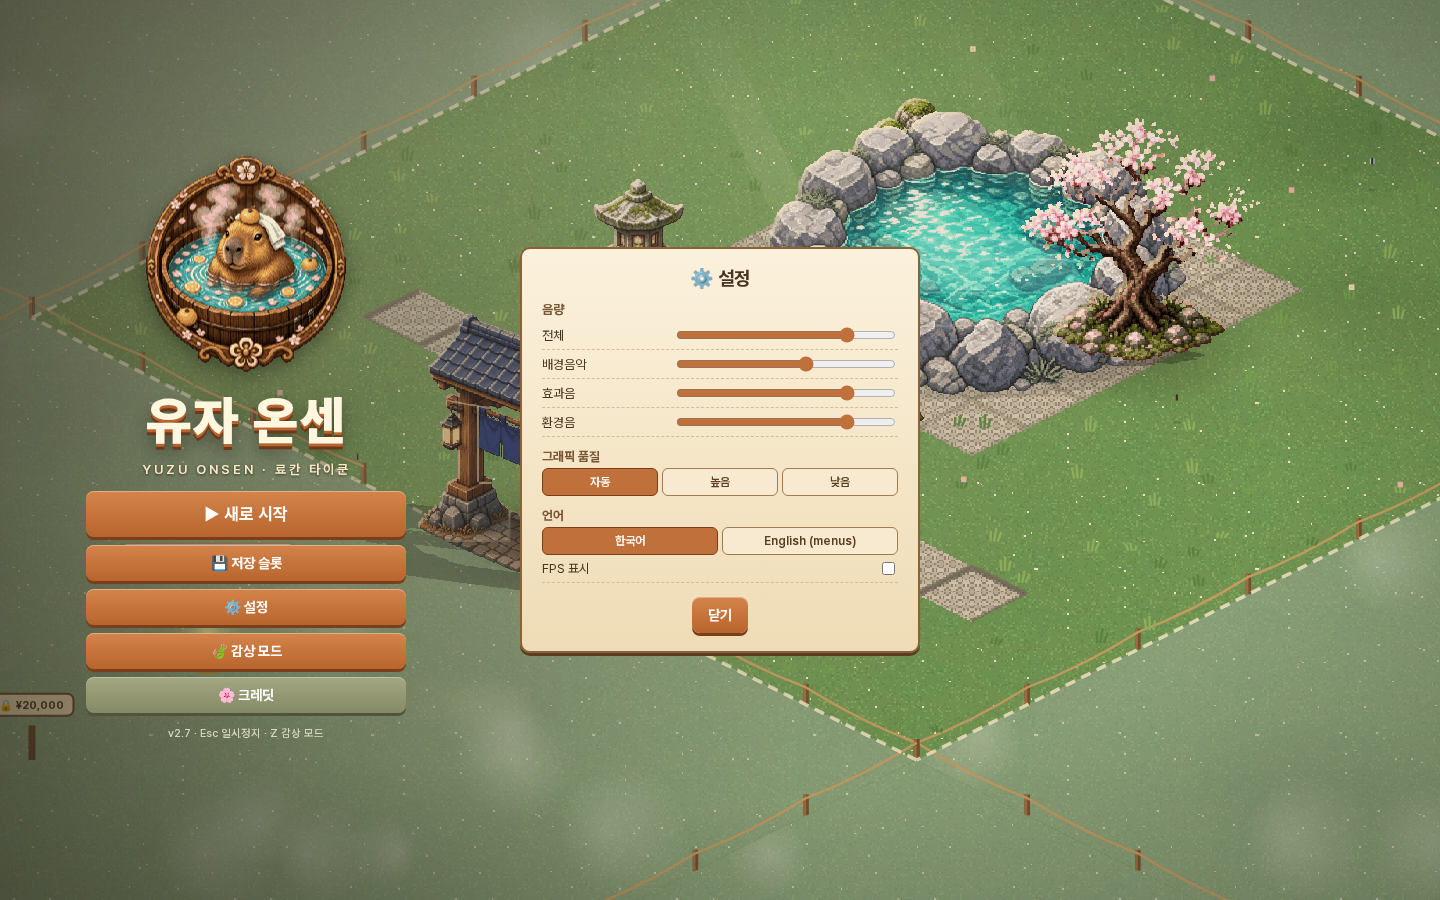
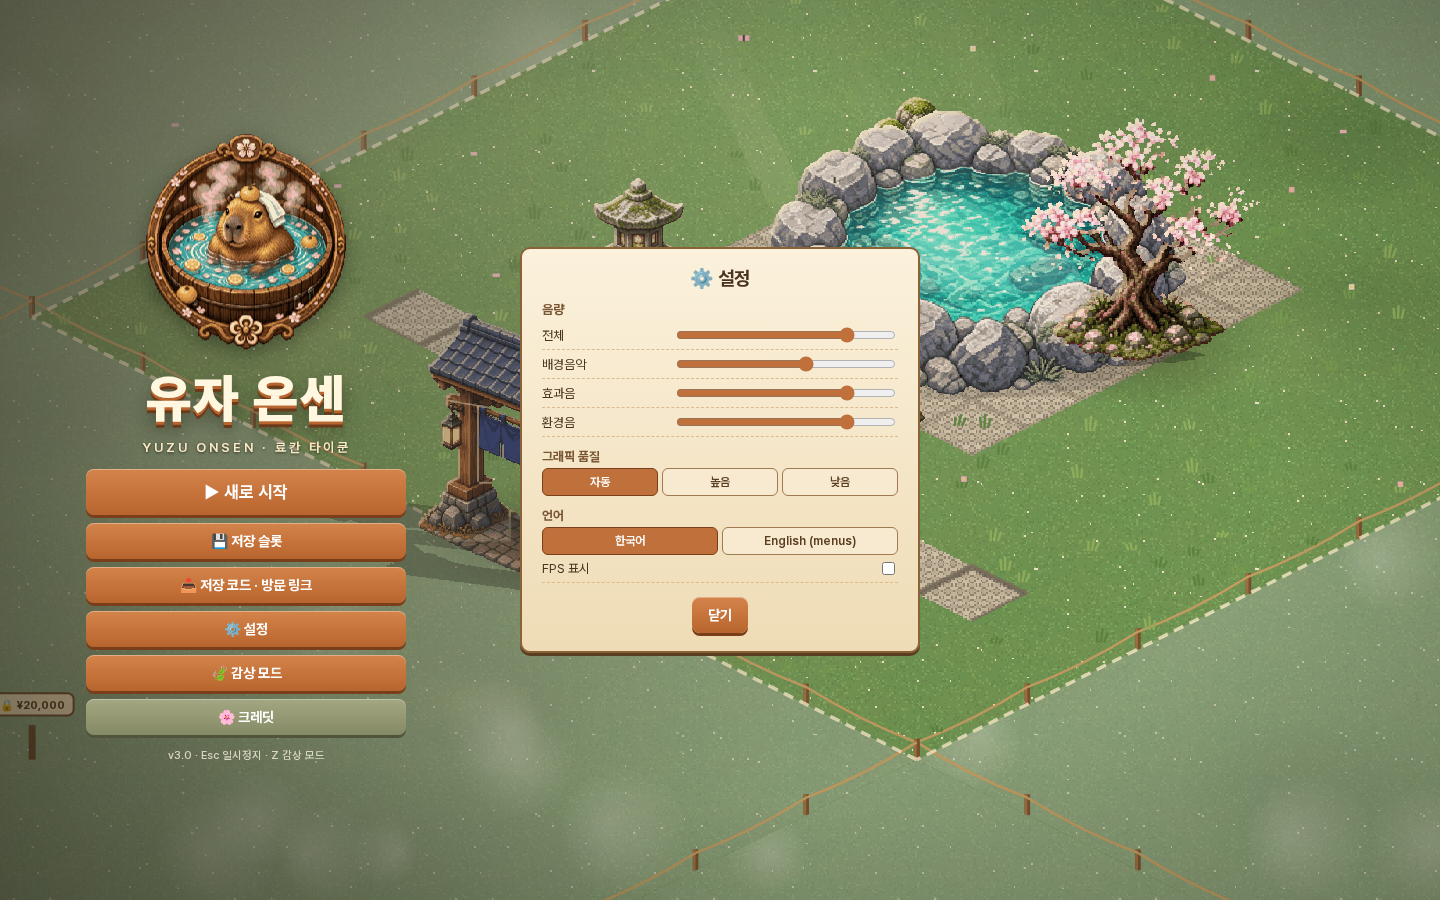
title start: glide camera home

diff --git a/shell.js b/shell.js
@@ -73,7 +73,7 @@ const SHELL=(()=>{
    <div class="ver">v3.0 · Esc 일시정지 · Z 감상 모드</div></div></div>`);
   document.body.appendChild(o);requestAnimationFrame(()=>o.classList.add('on'));
   o.querySelectorAll('[data-a]').forEach(b=>b.onclick=e=>{e.stopPropagation();SND.init();const a=b.dataset.a;if(a=='cont')start();else if(a=='slots')slots(true);else if(a=='set')settings();else if(a=='cred')credits();else if(a=='zen'){start();AMB.setZen(true)}})}
- function start(){const o=document.getElementById('title');if(o){o.classList.remove('on');o.id='';setTimeout(()=>o.remove(),700)}inTitle=false;paused=false;document.body.classList.remove('titling');AMB.setZen(false)}
+ function start(){const o=document.getElementById('title');if(o){o.classList.remove('on');o.id='';setTimeout(()=>o.remove(),700)}inTitle=false;paused=false;document.body.classList.remove('titling');AMB.setZen(false);const zh=document.getElementById('zHome');zh&&zh.click()}
  function refreshTexts(){const o=document.getElementById('title');if(o){o.remove();showTitle()}}
  // ---- 입력 ----
  addEventListener('keydown',e=>{if(inTitle){const t=top();if(e.key=='Escape'&&t){close(t.id);e.stopImmediatePropagation()}else if(e.key=='Enter'&&!t){start()}return}

diff --git a/live.js b/live.js
@@ -1,0 +1,5 @@
+const {chromium}=require('playwright');
+(async()=>{const b=await chromium.launch();const p=await b.newPage({viewport:{width:1440,height:900}});const errs=[];p.on('pageerror',e=>errs.push(e.message));p.on('requestfailed',r=>errs.push('FAIL '+r.url()));p.on('response',r=>{if(r.status()>=400)errs.push(r.status()+' '+r.url())});
+ await p.goto('https://ordinarypeople1.github.io/onsen-tycoon/');await p.waitForFunction(()=>window.__ready,null,{timeout:60000});await p.waitForTimeout(3000);await p.screenshot({path:'shot_live_title.png'});
+ await p.click('#title [data-a=cont]');await p.waitForTimeout(2000);await p.screenshot({path:'shot_live_game.png'});
+ console.log('ERR',JSON.stringify(errs));await b.close()})();
